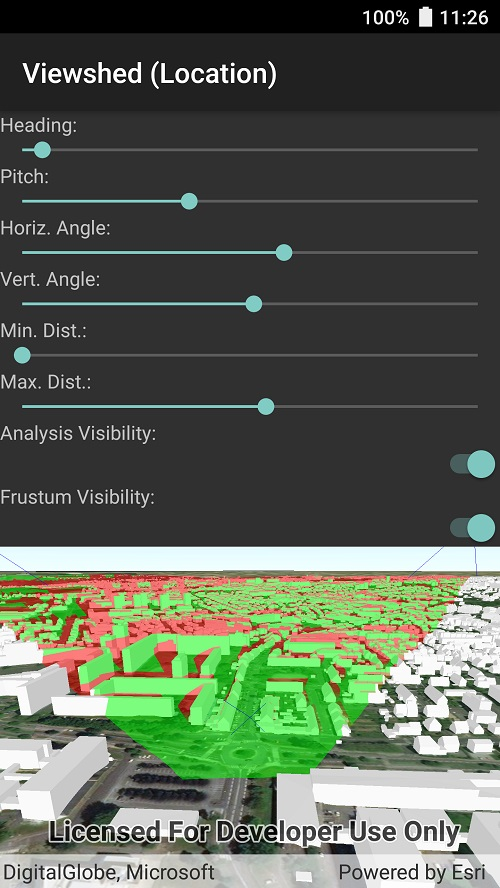
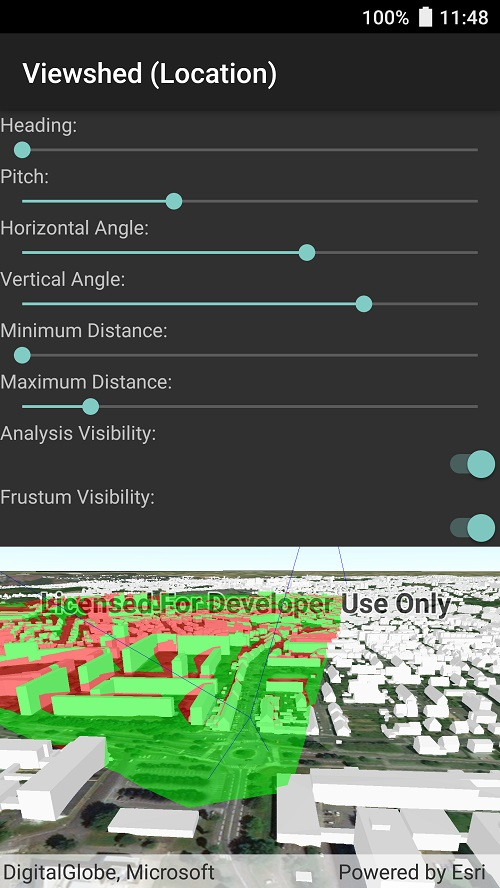
Quality review 2

diff --git a/src/Android/Xamarin.Android/Samples/Analysis/ViewshedLocation/ViewshedLocation.cs b/src/Android/Xamarin.Android/Samples/Analysis/ViewshedLocation/ViewshedLocation.cs
@@ -1,7 +1,7 @@
 // Copyright 2018 Esri.
 //
 // Licensed under the Apache License, Version 2.0 (the "License"); you may not use this file except in compliance with the License.
-// You may obtain a copy of the License at: http://www.apache.org/licenses/LICENSE-2.0
+// You may obtain a copy of the License at: https://www.apache.org/licenses/LICENSE-2.0
 //
 // Unless required by applicable law or agreed to in writing, software distributed under the License is distributed on an
 // "AS IS" BASIS, WITHOUT WARRANTIES OR CONDITIONS OF ANY KIND, either express or implied. See the License for the specific
@@ -27,10 +27,10 @@ namespace ArcGISRuntimeXamarin.Samples.ViewshedLocation
         private readonly SceneView _mySceneView = new SceneView();
 
         // URL to the elevation source
-        private readonly Uri _localElevationImageService = new Uri("http://scene.arcgis.com/arcgis/rest/services/BREST_DTM_1M/ImageServer");
+        private readonly Uri _localElevationImageService = new Uri("https://scene.arcgis.com/arcgis/rest/services/BREST_DTM_1M/ImageServer");
 
         // URL to the buildings scene layer
-        private readonly Uri _buildingsUrl = new Uri("http://tiles.arcgis.com/tiles/P3ePLMYs2RVChkJx/arcgis/rest/services/Buildings_Brest/SceneServer/layers/0");
+        private readonly Uri _buildingsUrl = new Uri("https://tiles.arcgis.com/tiles/P3ePLMYs2RVChkJx/arcgis/rest/services/Buildings_Brest/SceneServer/layers/0");
 
         // Reference to the viewshed analysis
         private LocationViewshed _viewshed;
@@ -54,8 +54,10 @@ namespace ArcGISRuntimeXamarin.Samples.ViewshedLocation
 
             Title = "Viewshed (Location)";
 
-            // Create the UI, setup the control references and execute initialization
+            // Create the layout
             CreateLayout();
+
+            // Initialize the sample
             Initialize();
         }
 
@@ -87,7 +89,7 @@ namespace ArcGISRuntimeXamarin.Samples.ViewshedLocation
                 _minimumDistanceSlider.Progress,
                 _maximumDistanceSlider.Progress);
 
-            // Create an initial camera based on the initial location.
+            // Create a camera based on the initial location.
             Camera camera = new Camera(initialLocation, 200.0, 20.0, 70.0, 0.0);
 
             // Apply the camera to the scene view.
@@ -103,6 +105,7 @@ namespace ArcGISRuntimeXamarin.Samples.ViewshedLocation
             _mySceneView.AnalysisOverlays.Add(_analysisOverlay);
 
             // Update the frustum outline color.
+            // The frustum outline shows the volume in which the viewshed analysis is performed.
             Viewshed.FrustumOutlineColor = System.Drawing.Color.Blue;
 
             // Subscribe to tap events to enable moving the observer.
@@ -155,26 +158,26 @@ namespace ArcGISRuntimeXamarin.Samples.ViewshedLocation
             layout.AddView(_pitchSlider);
 
             // Horizontal Angle
-            TextView horizontalAngleLabel = new TextView(this) { Text = "Horiz. Angle:" };
+            TextView horizontalAngleLabel = new TextView(this) { Text = "Horizontal Angle:" };
             _horizontalAngleSlider = new SeekBar(this) { Max = 120, Progress = 75 };
             layout.AddView(horizontalAngleLabel);
             layout.AddView(_horizontalAngleSlider);
 
             // Vertical Angle
-            TextView verticalAngleLabel = new TextView(this) { Text = "Vert. Angle:" };
+            TextView verticalAngleLabel = new TextView(this) { Text = "Vertical Angle:" };
             _verticalAngleSlider = new SeekBar(this) { Max = 120, Progress = 90 };
             layout.AddView(verticalAngleLabel);
             layout.AddView(_verticalAngleSlider);
 
             // Minimum Distance
-            TextView minimumDistanceLabel = new TextView(this) { Text = "Min. Dist.:" };
+            TextView minimumDistanceLabel = new TextView(this) { Text = "Minimum Distance:" };
             _minimumDistanceSlider = new SeekBar(this) { Max = 8999 };
             layout.AddView(minimumDistanceLabel);
             layout.AddView(_minimumDistanceSlider);
             layout.SetHorizontalGravity(GravityFlags.FillHorizontal);
 
             // Maximum Distance
-            TextView maximumDistanceLabel = new TextView(this) { Text = "Max. Dist.:" };
+            TextView maximumDistanceLabel = new TextView(this) { Text = "Maximum Distance:" };
             _maximumDistanceSlider = new SeekBar(this) { Max = 9999, Progress = 1500 };
             layout.AddView(maximumDistanceLabel);
             layout.AddView(_maximumDistanceSlider);

diff --git a/src/iOS/Xamarin.iOS/Samples/Analysis/ViewshedLocation/ViewshedLocation.cs b/src/iOS/Xamarin.iOS/Samples/Analysis/ViewshedLocation/ViewshedLocation.cs
@@ -1,7 +1,7 @@
 // Copyright 2018 Esri.
 //
 // Licensed under the Apache License, Version 2.0 (the "License"); you may not use this file except in compliance with the License.
-// You may obtain a copy of the License at: http://www.apache.org/licenses/LICENSE-2.0
+// You may obtain a copy of the License at: https://www.apache.org/licenses/LICENSE-2.0
 //
 // Unless required by applicable law or agreed to in writing, software distributed under the License is distributed on an
 // "AS IS" BASIS, WITHOUT WARRANTIES OR CONDITIONS OF ANY KIND, either express or implied. See the License for the specific
@@ -26,10 +26,10 @@ namespace ArcGISRuntimeXamarin.Samples.ViewshedLocation
         private readonly SceneView _mySceneView = new SceneView();
 
         // URL to the elevation source
-        private readonly Uri _localElevationImageService = new Uri("http://scene.arcgis.com/arcgis/rest/services/BREST_DTM_1M/ImageServer");
+        private readonly Uri _localElevationImageService = new Uri("https://scene.arcgis.com/arcgis/rest/services/BREST_DTM_1M/ImageServer");
 
         // URL to the buildings scene layer
-        private readonly Uri _buildingsUrl = new Uri("http://tiles.arcgis.com/tiles/P3ePLMYs2RVChkJx/arcgis/rest/services/Buildings_Brest/SceneServer/layers/0");
+        private readonly Uri _buildingsUrl = new Uri("https://tiles.arcgis.com/tiles/P3ePLMYs2RVChkJx/arcgis/rest/services/Buildings_Brest/SceneServer/layers/0");
 
         // Reference to the viewshed analysis
         private LocationViewshed _viewshed;
@@ -46,6 +46,8 @@ namespace ArcGISRuntimeXamarin.Samples.ViewshedLocation
         private readonly UISlider _maximumDistanceSlider = new UISlider() { MinValue = 0, MaxValue = 9999, Value = 1500 };
         private readonly UISwitch _analysisVisibilitySwitch = new UISwitch() { On = true };
         private readonly UISwitch _frustumVisibilitySwitch = new UISwitch() { On = false };
+
+        // Create labels for the UI controls.
         private readonly UILabel _headingLabel = new UILabel() { Text = "Heading:", TextColor = UIColor.Red };
         private readonly UILabel _pitchLabel = new UILabel() { Text = "Pitch", TextColor = UIColor.Red };
         private readonly UILabel _horizontalAngleLabel = new UILabel() { Text = "Horiz. Angle:", TextColor = UIColor.Red };
@@ -88,7 +90,7 @@ namespace ArcGISRuntimeXamarin.Samples.ViewshedLocation
                 _minimumDistanceSlider.Value,
                 _maximumDistanceSlider.Value);
 
-            // Create an initial camera based on the initial location.
+            // Create a camera based on the initial location.
             Camera camera = new Camera(initialLocation, 200.0, 20.0, 70.0, 0.0);
 
             // Apply the camera to the scene view.
@@ -104,6 +106,7 @@ namespace ArcGISRuntimeXamarin.Samples.ViewshedLocation
             _mySceneView.AnalysisOverlays.Add(_analysisOverlay);
 
             // Update the frustum outline color.
+            // The frustum outline shows the volume in which the viewshed analysis is performed.
             Viewshed.FrustumOutlineColor = Color.Blue;
 
             // Subscribe to tap events to enable moving the observer.
@@ -160,7 +163,10 @@ namespace ArcGISRuntimeXamarin.Samples.ViewshedLocation
 
         public override void ViewDidLoad()
         {
+            // Create the layout.
             CreateLayout();
+
+            // Initialize the sample.
             Initialize();
 
             base.ViewDidLoad();

diff --git a/src/Forms/Shared/Samples/Analysis/ViewshedLocation/ViewshedLocation.xaml.cs b/src/Forms/Shared/Samples/Analysis/ViewshedLocation/ViewshedLocation.xaml.cs
@@ -1,7 +1,7 @@
 // Copyright 2018 Esri.
 //
 // Licensed under the Apache License, Version 2.0 (the "License"); you may not use this file except in compliance with the License.
-// You may obtain a copy of the License at: http://www.apache.org/licenses/LICENSE-2.0
+// You may obtain a copy of the License at: https://www.apache.org/licenses/LICENSE-2.0
 //
 // Unless required by applicable law or agreed to in writing, software distributed under the License is distributed on an
 // "AS IS" BASIS, WITHOUT WARRANTIES OR CONDITIONS OF ANY KIND, either express or implied. See the License for the specific
@@ -24,10 +24,10 @@ namespace ArcGISRuntimeXamarin.Samples.ViewshedLocation
     public partial class ViewshedLocation : ContentPage
     {
         // URL to the elevation source
-        private readonly Uri _localElevationImageService = new Uri("http://scene.arcgis.com/arcgis/rest/services/BREST_DTM_1M/ImageServer");
+        private readonly Uri _localElevationImageService = new Uri("https://scene.arcgis.com/arcgis/rest/services/BREST_DTM_1M/ImageServer");
 
         // URL to the buildings scene layer
-        private readonly Uri _buildingsUrl = new Uri("http://tiles.arcgis.com/tiles/P3ePLMYs2RVChkJx/arcgis/rest/services/Buildings_Brest/SceneServer/layers/0");
+        private readonly Uri _buildingsUrl = new Uri("https://tiles.arcgis.com/tiles/P3ePLMYs2RVChkJx/arcgis/rest/services/Buildings_Brest/SceneServer/layers/0");
 
         // Reference to the viewshed analysis
         private LocationViewshed _viewshed;
@@ -41,6 +41,7 @@ namespace ArcGISRuntimeXamarin.Samples.ViewshedLocation
 
             Title = "Viewshed (Location)";
 
+            // Initialize the sample
             Initialize();
         }
 
@@ -72,7 +73,7 @@ namespace ArcGISRuntimeXamarin.Samples.ViewshedLocation
                 MinimumDistanceSlider.Value,
                 MaximumDistanceSlider.Value);
 
-            // Create an initial camera based on the initial location.
+            // Create a camera based on the initial location.
             Camera camera = new Camera(initialLocation, 200.0, 20.0, 70.0, 0.0);
 
             // Apply the camera to the scene view.
@@ -88,6 +89,7 @@ namespace ArcGISRuntimeXamarin.Samples.ViewshedLocation
             MySceneView.AnalysisOverlays.Add(_analysisOverlay);
 
             // Update the frustum outline color.
+            // The frustum outline shows the volume in which the viewshed analysis is performed.
             Viewshed.FrustumOutlineColor = Colors.Blue;
 
             // Subscribe to tap events to enable moving the observer.

diff --git a/src/WPF/ArcGISRuntime.WPF.Samples/Samples/Analysis/ViewshedLocation/ViewshedLocation.xaml.cs b/src/WPF/ArcGISRuntime.WPF.Samples/Samples/Analysis/ViewshedLocation/ViewshedLocation.xaml.cs
@@ -1,7 +1,7 @@
 // Copyright 2018 Esri.
 //
 // Licensed under the Apache License, Version 2.0 (the "License"); you may not use this file except in compliance with the License.
-// You may obtain a copy of the License at: http://www.apache.org/licenses/LICENSE-2.0
+// You may obtain a copy of the License at: https://www.apache.org/licenses/LICENSE-2.0
 //
 // Unless required by applicable law or agreed to in writing, software distributed under the License is distributed on an
 // "AS IS" BASIS, WITHOUT WARRANTIES OR CONDITIONS OF ANY KIND, either express or implied. See the License for the specific
@@ -21,10 +21,10 @@ namespace ArcGISRuntime.WPF.Samples.ViewshedLocation
     public partial class ViewshedLocation
     {
         // URL to the elevation source
-        private readonly Uri _localElevationImageService = new Uri("http://scene.arcgis.com/arcgis/rest/services/BREST_DTM_1M/ImageServer");
+        private readonly Uri _localElevationImageService = new Uri("https://scene.arcgis.com/arcgis/rest/services/BREST_DTM_1M/ImageServer");
 
         // URL to the buildings scene layer
-        private readonly Uri _buildingsUrl = new Uri("http://tiles.arcgis.com/tiles/P3ePLMYs2RVChkJx/arcgis/rest/services/Buildings_Brest/SceneServer/layers/0");
+        private readonly Uri _buildingsUrl = new Uri("https://tiles.arcgis.com/tiles/P3ePLMYs2RVChkJx/arcgis/rest/services/Buildings_Brest/SceneServer/layers/0");
 
         // Reference to the viewshed analysis
         private LocationViewshed _viewshed;
@@ -71,7 +71,7 @@ namespace ArcGISRuntime.WPF.Samples.ViewshedLocation
                 MinimumDistanceSlider.Value,
                 MaximumDistanceSlider.Value);
 
-            // Create an initial camera based on the initial location.
+            // Create a camera based on the initial location.
             Camera camera = new Camera(initialLocation, 200.0, 20.0, 70.0, 0.0);
 
             // Apply the camera to the scene view.
@@ -87,6 +87,7 @@ namespace ArcGISRuntime.WPF.Samples.ViewshedLocation
             MySceneView.AnalysisOverlays.Add(_analysisOverlay);
 
             // Update the frustum outline color.
+            // The frustum outline shows the volume in which the viewshed analysis is performed.
             Viewshed.FrustumOutlineColor = Colors.Blue;
 
             // Subscribe to tap events. This enables the 'pick up' and 'drop' workflow for moving the viewpoint.

diff --git a/src/UWP/ArcGISRuntime.UWP.Samples/Samples/Analysis/ViewshedLocation/ViewshedLocation.xaml.cs b/src/UWP/ArcGISRuntime.UWP.Samples/Samples/Analysis/ViewshedLocation/ViewshedLocation.xaml.cs
@@ -1,7 +1,7 @@
 // Copyright 2018 Esri.
 //
 // Licensed under the Apache License, Version 2.0 (the "License"); you may not use this file except in compliance with the License.
-// You may obtain a copy of the License at: http://www.apache.org/licenses/LICENSE-2.0
+// You may obtain a copy of the License at: https://www.apache.org/licenses/LICENSE-2.0
 //
 // Unless required by applicable law or agreed to in writing, software distributed under the License is distributed on an
 // "AS IS" BASIS, WITHOUT WARRANTIES OR CONDITIONS OF ANY KIND, either express or implied. See the License for the specific
@@ -20,10 +20,10 @@ namespace ArcGISRuntime.UWP.Samples.ViewshedLocation
     public partial class ViewshedLocation
     {
         // URL to the elevation source
-        private readonly Uri _localElevationImageService = new Uri("http://scene.arcgis.com/arcgis/rest/services/BREST_DTM_1M/ImageServer");
+        private readonly Uri _localElevationImageService = new Uri("https://scene.arcgis.com/arcgis/rest/services/BREST_DTM_1M/ImageServer");
 
         // URL to the buildings scene layer
-        private readonly Uri _buildingsUrl = new Uri("http://tiles.arcgis.com/tiles/P3ePLMYs2RVChkJx/arcgis/rest/services/Buildings_Brest/SceneServer/layers/0");
+        private readonly Uri _buildingsUrl = new Uri("https://tiles.arcgis.com/tiles/P3ePLMYs2RVChkJx/arcgis/rest/services/Buildings_Brest/SceneServer/layers/0");
 
         // Reference to the viewshed analysis
         private LocationViewshed _viewshed;
@@ -67,7 +67,7 @@ namespace ArcGISRuntime.UWP.Samples.ViewshedLocation
                 MinimumDistanceSlider.Value,
                 MaximumDistanceSlider.Value);
 
-            // Create an initial camera based on the initial location.
+            // Create a camera based on the initial location.
             Camera camera = new Camera(initialLocation, 200.0, 20.0, 70.0, 0.0);
 
             // Apply the camera to the scene view.
@@ -83,6 +83,7 @@ namespace ArcGISRuntime.UWP.Samples.ViewshedLocation
             MySceneView.AnalysisOverlays.Add(_analysisOverlay);
 
             // Update the frustum outline color.
+            // The frustum outline shows the volume in which the viewshed analysis is performed.
             Viewshed.FrustumOutlineColor = Colors.Blue;
 
             // Subscribe to tap events to enable moving the observer.
